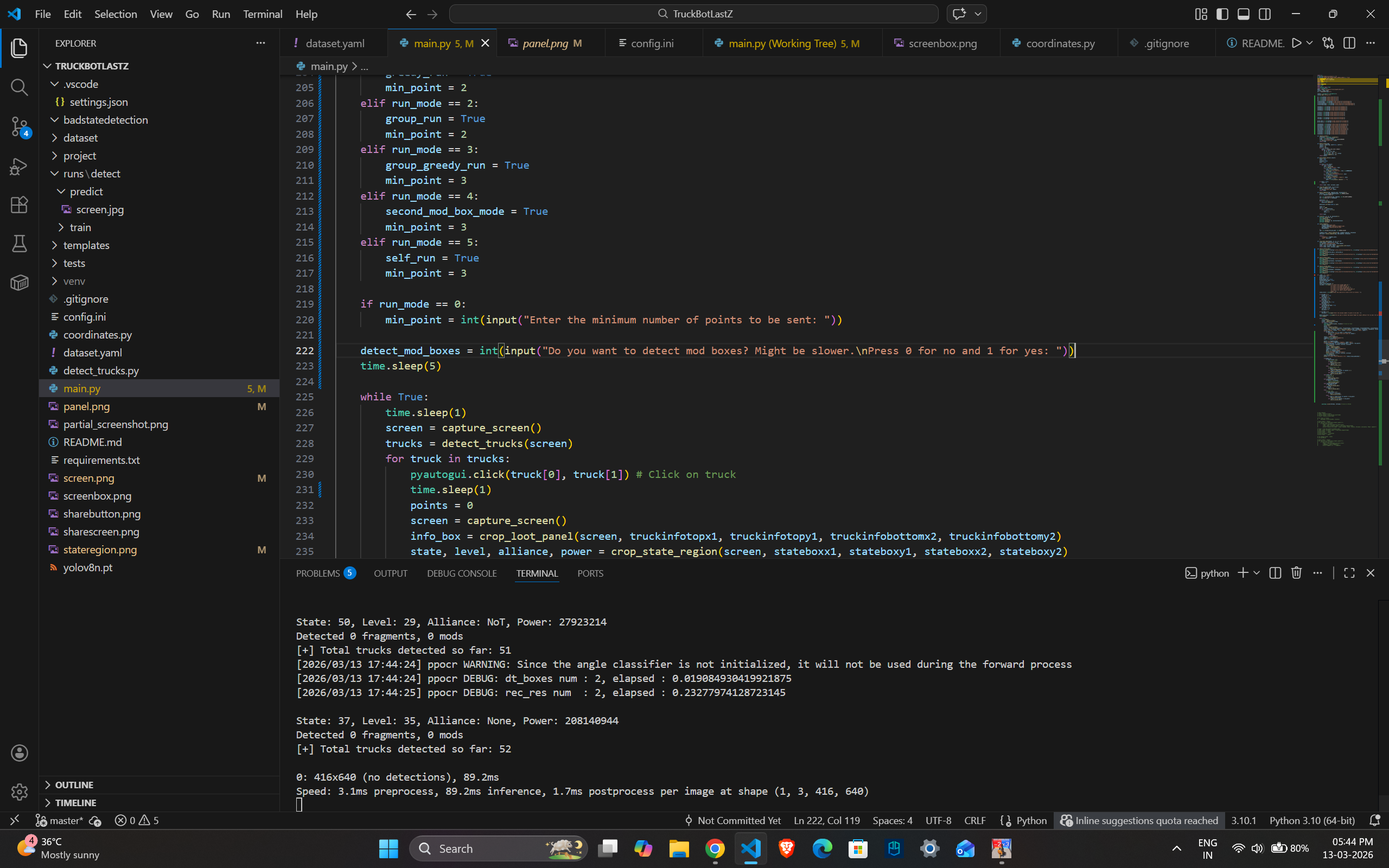
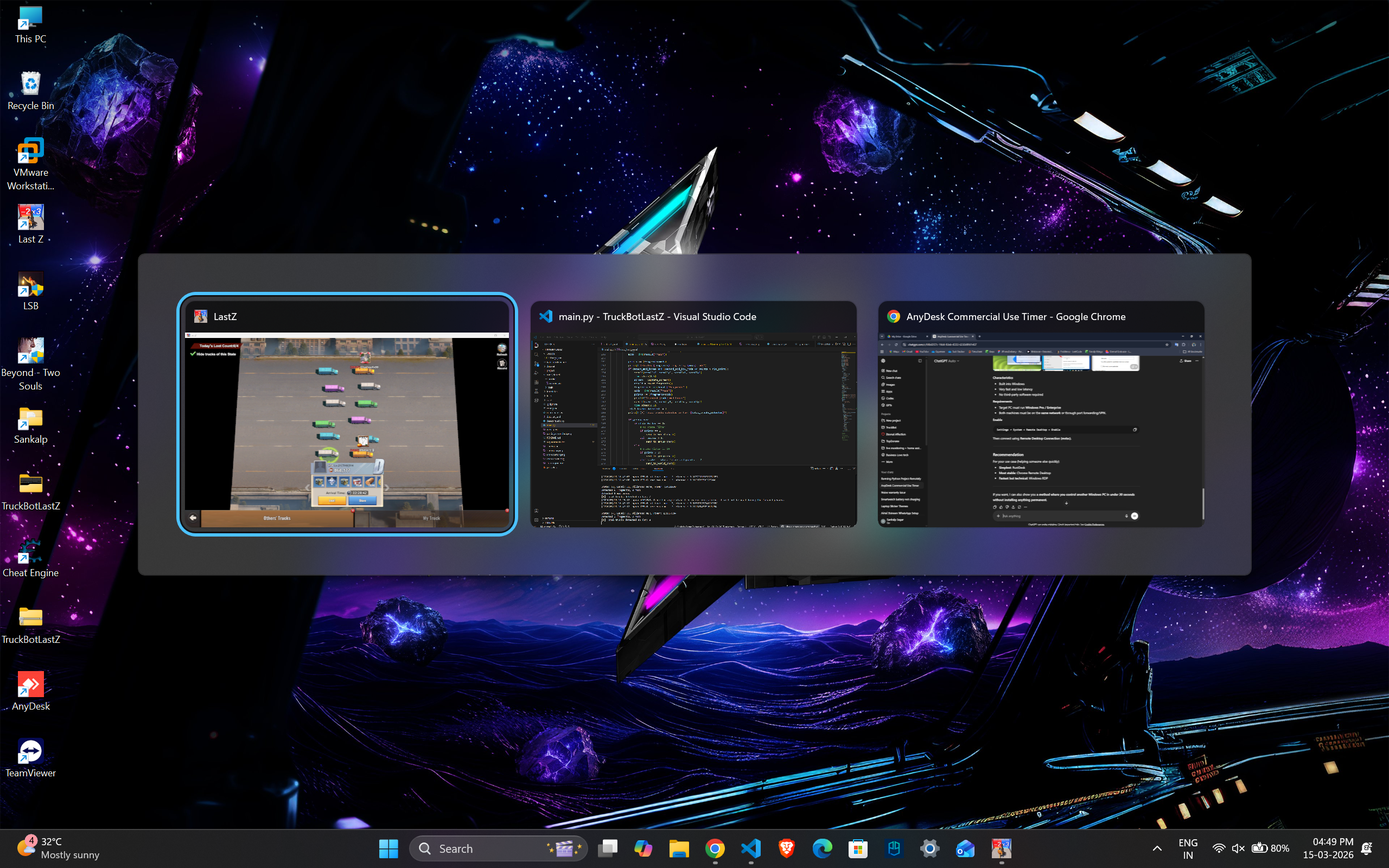
fix scroll bug

diff --git a/main.py b/main.py
@@ -160,25 +160,25 @@ def crop_state_region(panel, x1, y1, x2, y2):
 
 def send_to_world_chat():
     pyautogui.click(int(config["screen_values"]["sharebuttonx"]), int(config["screen_values"]["sharebuttony"]))
-    time.sleep(0.5)
+    time.sleep(1)
     pyautogui.click(world_chat_x, world_chat_y)
-    time.sleep(0.5)
+    time.sleep(1)
     pyautogui.click(int(config["screen_values"]["sharebuttonfinalx"]), int(config["screen_values"]["sharebuttonfinaly"]))
     time.sleep(1)
 
 def send_to_group_chat():
     pyautogui.click(int(config["screen_values"]["sharebuttonx"]), int(config["screen_values"]["sharebuttony"]))
-    time.sleep(0.5)
+    time.sleep(1)
     pyautogui.click(fourthchatx, fourthchaty)
-    time.sleep(0.5)
+    time.sleep(1)
     pyautogui.click(int(config["screen_values"]["sharebuttonfinalx"]), int(config["screen_values"]["sharebuttonfinaly"]))
     time.sleep(1)
 
 def send_to_second_chat():
     pyautogui.click(int(config["screen_values"]["sharebuttonx"]), int(config["screen_values"]["sharebuttony"]))
-    time.sleep(0.5)
+    time.sleep(1)
     pyautogui.click(fifthchatx, fifthchaty)
-    time.sleep(0.5)
+    time.sleep(1)
     pyautogui.click(int(config["screen_values"]["sharebuttonfinalx"]), int(config["screen_values"]["sharebuttonfinaly"]))
     time.sleep(1)
 
@@ -189,6 +189,7 @@ if __name__ == "__main__":
     group_greedy_run = False
     second_mod_box_mode = False
     self_run = False
+    custom_group_run = False
     mod_boxes = 0
     total_trucks_detected = 0
     run_mode = int(input("[+] Press 0 for normal mode.\n" \
@@ -251,15 +252,16 @@ if __name__ == "__main__":
             print(f"Detected {fragments} fragments, {mods} mods")
             if detect_mod_boxes and (second_mod_box_mode or points < min_point):
                 scroll(scrollx2, scrolly2, scrollx1, scrolly1)
-                time.sleep(0.5)
+                time.sleep(1)
                 screen = capture_screen()
+                info_box = crop_loot_panel(screen, truckinfotopx1, truckinfotopy1, truckinfobottomx2, truckinfobottomy2)
                 result = count_fragments()
                 fragments = int(result["fragments"])
                 mods = int(result["mods"])
                 points += (fragments+mods)
                 print(f"Detected {mods} mod boxes")
                 scroll(scrollx1, scrolly1, scrollx2, scrolly2)
-                time.sleep(0.5)
+                time.sleep(1)
             total_trucks_detected += 1
             print(f"[+] Total trucks detected so far: {total_trucks_detected}")
 
